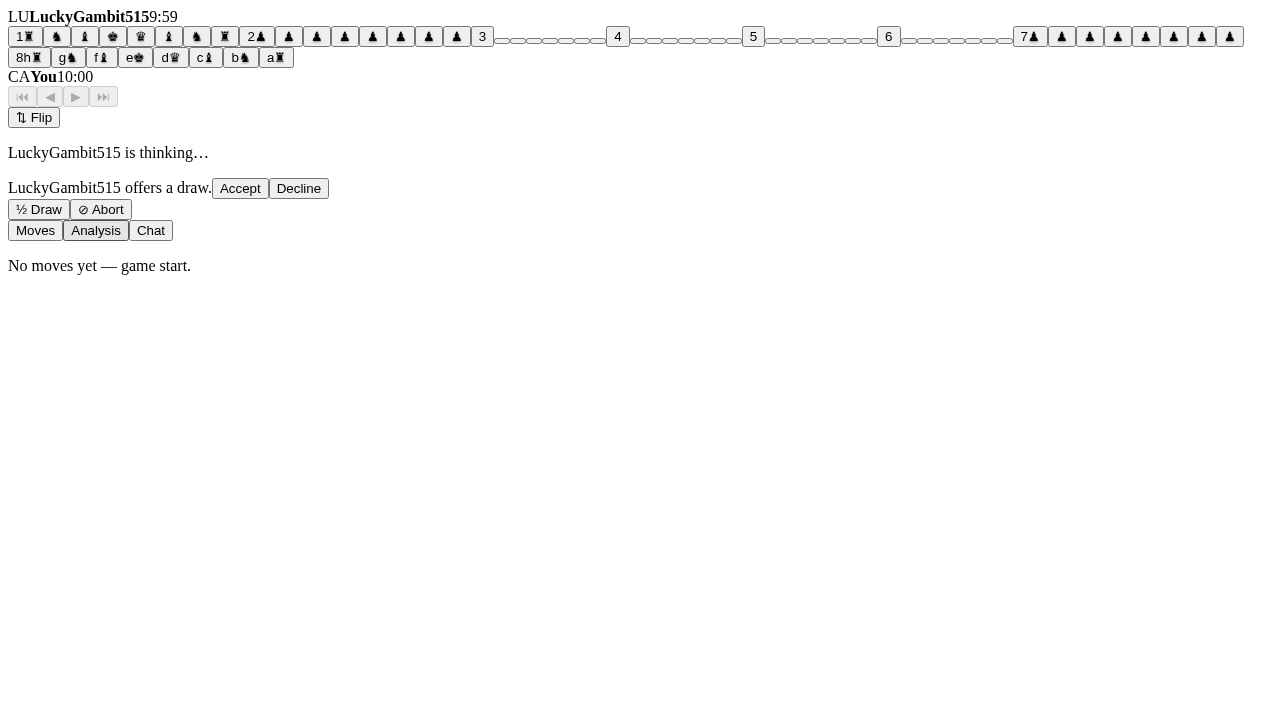
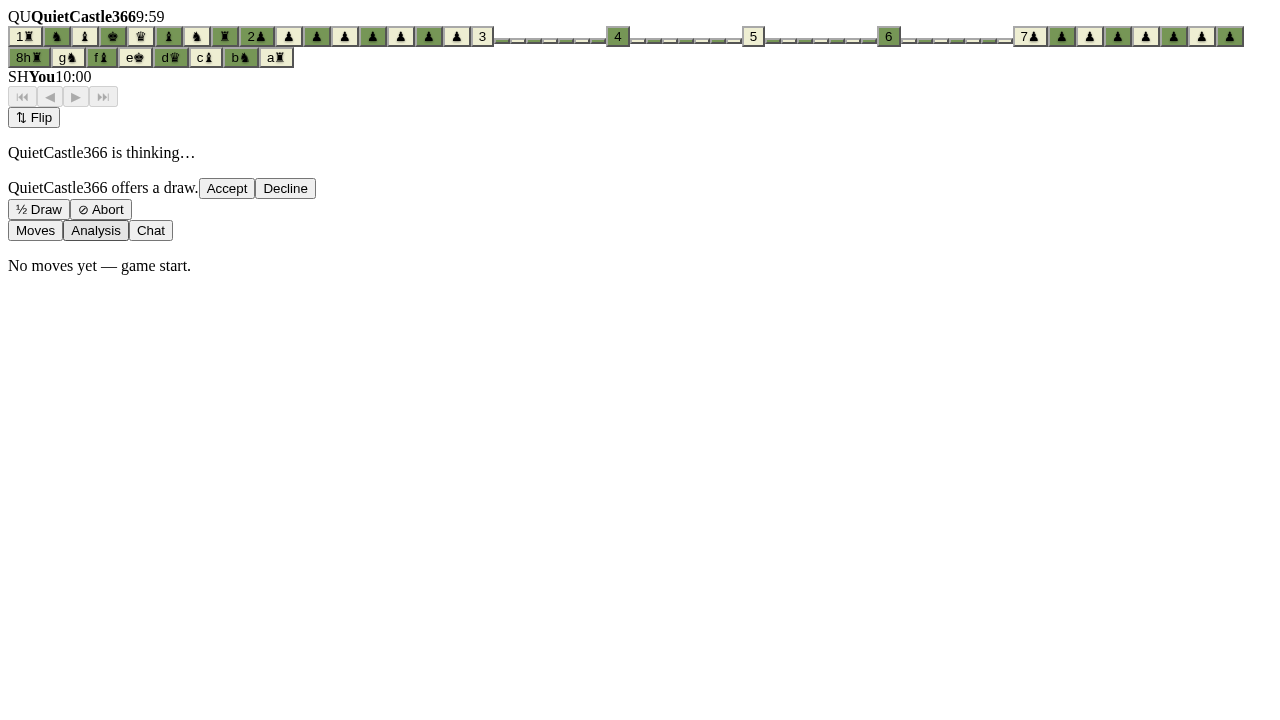
Settings page: board themes, coordinate + sound toggles; widen-on-slow-search notice; e2e-settings 5/5; all suites green

Changed region(s): [[0.0, 0.0, 0.9688, 0.1222], [0.0, 0.1833, 0.25, 0.275]]

diff --git a/app/settings/page.tsx b/app/settings/page.tsx
@@ -1,0 +1,87 @@
+"use client";
+// S06 settings: board theme, coordinates, sound. Local preferences, applied
+// live on the game screen. Piece sets: classic only for now.
+
+import { useEffect, useState } from "react";
+import Link from "next/link";
+import {
+  THEMES, getCoords, getSound, getThemeId, setCoords as saveCoords,
+  setSound as saveSound, setThemeId,
+} from "@/lib/themes";
+import { setSoundEnabled } from "@/lib/sounds";
+
+export default function SettingsPage() {
+  const [theme, setTheme] = useState(getThemeId());
+  const [coords, setCoords] = useState(true);
+  const [sound, setSound] = useState(true);
+
+  useEffect(() => {
+    setCoords(getCoords());
+    setSound(getSound());
+    setSoundEnabled(getSound());
+  }, []);
+
+  return (
+    <main className="mx-auto flex min-h-dvh max-w-md flex-col gap-6 p-4">
+      <header className="flex items-baseline justify-between">
+        <h1 className="text-xl font-bold">Settings</h1>
+        <Link href="/" className="text-sm text-text-muted hover:text-text">← Play</Link>
+      </header>
+
+      <section className="flex flex-col gap-2">
+        <h2 className="text-xs font-semibold uppercase tracking-wider text-text-muted">Board theme</h2>
+        <div className="grid grid-cols-5 gap-2">
+          {THEMES.map((t) => (
+            <button
+              key={t.id}
+              aria-label={`${t.name} board`}
+              aria-pressed={theme === t.id}
+              onClick={() => { setTheme(t.id); saveTheme(t.id); }}
+              className={`flex flex-col items-center gap-1 rounded-md border p-1 ${
+                theme === t.id ? "border-accent" : "border-border"
+              }`}
+            >
+              <span className="grid h-10 w-10 grid-cols-2 overflow-hidden rounded-sm">
+                <span style={{ background: t.light }} />
+                <span style={{ background: t.dark }} />
+                <span style={{ background: t.dark }} />
+                <span style={{ background: t.light }} />
+              </span>
+              <span className="text-[10px] text-text-muted">{t.name}</span>
+            </button>
+          ))}
+        </div>
+      </section>
+
+      <section className="flex flex-col gap-2">
+        <h2 className="text-xs font-semibold uppercase tracking-wider text-text-muted">Board</h2>
+        <label className="flex items-center justify-between rounded-md border border-border bg-surface px-3 py-2 text-sm">
+          Show coordinates
+          <input
+            type="checkbox"
+            checked={coords}
+            onChange={(e) => { setCoords(e.target.checked); saveCoords(e.target.checked); }}
+          />
+        </label>
+      </section>
+
+      <section className="flex flex-col gap-2">
+        <h2 className="text-xs font-semibold uppercase tracking-wider text-text-muted">Sound</h2>
+        <label className="flex items-center justify-between rounded-md border border-border bg-surface px-3 py-2 text-sm">
+          Move and check sounds
+          <input
+            type="checkbox"
+            checked={sound}
+            onChange={(e) => { setSound(e.target.checked); saveSound(e.target.checked); setSoundEnabled(e.target.checked); }}
+          />
+        </label>
+      </section>
+
+      <p className="text-xs text-text-muted">
+        Piece sets: classic (only set in this build).
+      </p>
+    </main>
+  );
+}
+
+function saveTheme(id: string) { setThemeId(id); }

diff --git a/app/page.tsx b/app/page.tsx
@@ -40,6 +40,7 @@ export default function Lobby() {
   const [ratings, setRatings] = useState<ReturnType<typeof cachedRatings>>([]);
   const [tick, setTick] = useState(0);
   const [challenge, setChallenge] = useState<{ id: string; link: string } | null>(null);
+  const [elapsed, setElapsed] = useState(0);
   const [copied, setCopied] = useState(false);
   const [mode, setMode] = useState<Mode>("idle");
   const [tip, setTip] = useState(0);
@@ -61,6 +62,12 @@ export default function Lobby() {
     }, 2000);
     return () => clearInterval(id);
   }, [challenge, router]);
+
+  useEffect(() => {
+    if (mode !== "searching") { setElapsed(0); return; }
+    const t = setInterval(() => setElapsed((e) => e + 1), 1000);
+    return () => clearInterval(t);
+  }, [mode]);
 
   useEffect(() => {
     if (mode !== "searching") return;
@@ -139,6 +146,11 @@ export default function Lobby() {
             {String(Math.floor(seconds / 60)).padStart(2, "0")}:{String(seconds % 60).padStart(2, "0")}
           </p>
         </div>
+        {elapsed >= 15 && (
+          <p role="status" className="text-sm text-text-muted">
+            Still searching — widening the rating range to find the closest match.
+          </p>
+        )}
         <p key={tip} className="min-h-10 text-sm text-text-muted">
           {TIPS[tip]}
         </p>
@@ -170,6 +182,7 @@ export default function Lobby() {
         </div>
         <nav className="flex gap-2 text-sm">
           <a href="/leaderboard" className="text-text-muted hover:text-text">Leaderboard</a>
+          <a href="/settings" className="text-text-muted hover:text-text">Settings</a>
           {ident.name === "You" ? (
             <a href="/account" className="text-text-muted hover:text-text">Sign up / Log in</a>
           ) : (

diff --git a/lib/themes.ts b/lib/themes.ts
@@ -1,0 +1,46 @@
+// Board themes + display preferences. Stored locally (no account needed),
+// applied by the Board component. Piece sets stay on the classic set.
+
+export type Theme = { id: string; name: string; light: string; dark: string };
+
+export const THEMES: Theme[] = [
+  { id: "green", name: "Green", light: "#eeeed2", dark: "#769656" },
+  { id: "brown", name: "Wood", light: "#f0d9b5", dark: "#b58863" },
+  { id: "blue", name: "Ice", light: "#dee3e6", dark: "#8ca2ad" },
+  { id: "gray", name: "Slate", light: "#d9d9d9", dark: "#a3a3a3" },
+  { id: "purple", name: "Royal", light: "#e8e0f0", dark: "#8a6fb0" },
+];
+
+const DEFAULT_THEME = "green";
+
+export function getThemeId(): string {
+  if (typeof window === "undefined") return DEFAULT_THEME;
+  return localStorage.getItem("cb-theme") ?? DEFAULT_THEME;
+}
+
+export function getTheme(): Theme {
+  const id = getThemeId();
+  return THEMES.find((t) => t.id === id) ?? THEMES[0];
+}
+
+export function setThemeId(id: string) {
+  localStorage.setItem("cb-theme", id);
+}
+
+export function getCoords(): boolean {
+  if (typeof window === "undefined") return true;
+  return localStorage.getItem("cb-coords") !== "off";
+}
+
+export function setCoords(on: boolean) {
+  localStorage.setItem("cb-coords", on ? "on" : "off");
+}
+
+export function getSound(): boolean {
+  if (typeof window === "undefined") return true;
+  return localStorage.getItem("cb-sound") !== "off";
+}
+
+export function setSound(on: boolean) {
+  localStorage.setItem("cb-sound", on ? "on" : "off");
+}

diff --git a/components/Board.tsx b/components/Board.tsx
@@ -15,6 +15,8 @@ export type BoardSquare = {
 };
 
 export function Board({
+  theme,
+  showCoords = true,
   board,
   orientation = "white",
   selected,
@@ -23,6 +25,8 @@ export function Board({
   checkSquare,
   onSquare,
 }: {
+  theme?: { light: string; dark: string };
+  showCoords?: boolean;
   board: BoardSquare[];
   orientation?: "white" | "black";
   selected?: string | null;
@@ -57,15 +61,16 @@ export function Board({
             role="gridcell"
             aria-label={`${square}${piece ? `, ${piece.color === "w" ? "white" : "black"} ${piece.type}` : ", empty"}`}
             onClick={() => onSquare(square)}
-            className={`relative grid place-items-center ${isDark ? "bg-board-dark" : "bg-board-light"}
+            style={{ backgroundColor: isDark ? (theme?.dark ?? "#769656") : (theme?.light ?? "#eeeed2") }}
+            className={`relative grid place-items-center
               focus-visible:outline-2 focus-visible:outline-accent focus-visible:-outline-offset-2`}
           >
-            {isLeft && (
+            {showCoords !== false && isLeft && (
               <span aria-hidden className="absolute left-0.5 top-0.5 text-[10px] font-semibold leading-none opacity-60">
                 {square[1]}
               </span>
             )}
-            {isBottom && (
+            {showCoords !== false && isBottom && (
               <span aria-hidden className="absolute bottom-0.5 right-1 text-[10px] font-semibold leading-none opacity-60">
                 {square[0]}
               </span>

diff --git a/app/play/page.tsx b/app/play/page.tsx
@@ -19,7 +19,8 @@ import {
   resignGame, respondDraw, sendChat, serverBotMove, submitMove,
   type GameSnapshot, type Player,
 } from "@/lib/datalayer";
-import { sounds } from "@/lib/sounds";
+import { sounds, setSoundEnabled } from "@/lib/sounds";
+import { getCoords, getSound, getTheme } from "@/lib/themes";
 
 type Phase = "active" | "finished";
 
@@ -85,7 +86,10 @@ function PlayInner() {
   const [chat, setChat] = useState<{ body: string; username: string }[]>([]);
   const [chatDraft, setChatDraft] = useState("");
   const [lowBeeped, setLowBeeped] = useState<"w" | "b" | null>(null);
+  const [boardTheme, setBoardTheme] = useState(getTheme());
+  const [boardCoords, setBoardCoords] = useState(true);
   const [copied, setCopied] = useState(false);
+
   const appliedPly = useRef(0);
   const overRef = useRef(false);
 
@@ -153,6 +157,12 @@ function PlayInner() {
 
   // Bootstrap: an explicit game id means a real game (human or bot, from the
   // server); no id is the legacy bot-game flow.
+  useEffect(() => {
+    setBoardTheme(getTheme());
+    setBoardCoords(getCoords());
+    setSoundEnabled(getSound());
+  }, []);
+
   useEffect(() => {
     let alive = true;
     async function boot() {
@@ -441,6 +451,8 @@ function PlayInner() {
       />
 
       <Board
+        theme={boardTheme}
+        showCoords={boardCoords}
         board={board}
         orientation={orientation}
         selected={selected}
